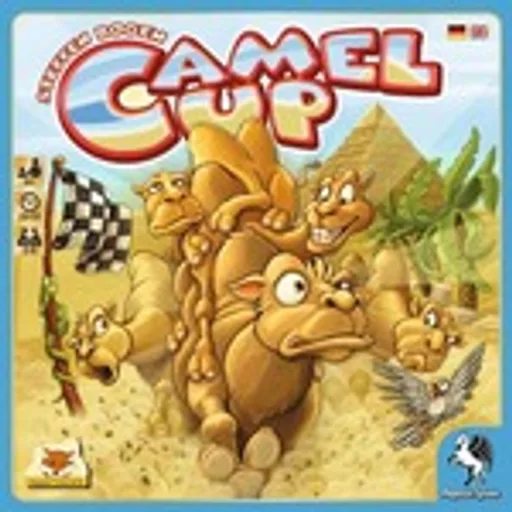
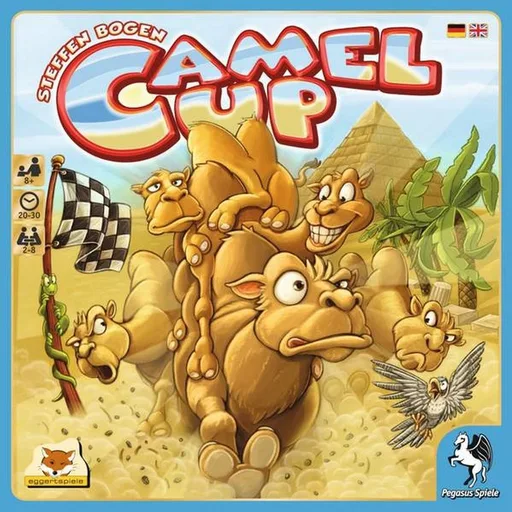
Las portadas nuevas dejan de quedarse pegadas en el móvil
El service worker guardaba «covers/*.webp» con CacheFirst y 180 días de vida,
dando por hecho que una portada no cambia nunca. Sí cambian: hasta que se
bajaron las cajas de BGG, esas mismas rutas servían fotos de Wikimedia —gente
jugando en una convención— y quien ya hubiera abierto la app se quedaba con
ellas durante meses. La caché pasa a llamarse «portadas-v2», y la vieja se
borra al arrancar desde el nuevo «src/lib/caches.ts», que workbox solo limpia
lo que él mismo precarga.

De paso, ya no queda ninguna portada fuera de la API: «Aventureros al Tren»
(9209) y «Parchís» (2136, «Pachisi») reciben su ID de BGG, y con ellos
«covers.overrides.ts» se queda vacío. Las 369 portadas vienen de BoardGameGeek.

diff --git a/src/games/covers.generated.ts b/src/games/covers.generated.ts
@@ -12,8 +12,8 @@
  * `sourceUrl` es de dónde se sacó la imagen. Las carátulas son de sus editoriales; se
  * guardan a 512 px con fines de identificación (ver la nota del README).
  *
- * Última actualización: 2026-08-17
- * Con portada: 368 de 393
+ * Última actualización: 2026-08-19
+ * Con portada: 369 de 393
  */
 export interface Cover {
   /** Ruta relativa a la base del sitio: `covers/azul.webp`. */
@@ -47,13 +47,13 @@ export const COVERS: Record<string, Cover> = {
   'arkham-horror-lcg': { file: 'covers/arkham-horror-lcg.webp', source: 'bgg', sourceUrl: 'https://cf.geekdo-images.com/B5F5ulz0UivNgrI9Ky0euA__original/img/guEKCewM_2e5ugltSN3dTSwdZJI=/0x0/filters:format(jpeg)/pic3122349.jpg' },
   'arnak-missing-expedition': { file: 'covers/arnak-missing-expedition.webp', source: 'bgg', sourceUrl: 'https://cf.geekdo-images.com/TABbfOUUMAuD6R7WEK8PZg__original/img/tVpMJ721tH_l24mgrNcNSEPhVfY=/0x0/filters:format(jpeg)/pic7412877.jpg' },
   'ascension': { file: 'covers/ascension.webp', source: 'bgg', sourceUrl: 'https://cf.geekdo-images.com/xP9s1W6CzUPW9_etm395lg__original/img/ozzJzhBFNune8ZoLJeVssWkCHGU=/0x0/filters:format(jpeg)/pic1779866.jpg' },
-  'aventureros-al-tren': { file: 'covers/aventureros-al-tren.webp', source: 'manual', sourceUrl: 'https://upload.wikimedia.org/wikipedia/en/9/92/Ticket_to_Ride_Board_Game_Box_EN.jpg' },
+  'aventureros-al-tren': { file: 'covers/aventureros-al-tren.webp', source: 'bgg', sourceUrl: 'https://cf.geekdo-images.com/kdWYkW-7AqG63HhqPL6ekA__original/img/rWF8r4JXXCQQ7QhiWHhmT-rQ3Pc=/0x0/filters:format(jpeg)/pic8937637.jpg' },
   'axis-allies': { file: 'covers/axis-allies.webp', source: 'bgg', sourceUrl: 'https://cf.geekdo-images.com/pWUe-w4DpXdcmH6GqbZqCw__original/img/-mqPeX0oe4pkmLxBNyRt3uGyyf0=/0x0/filters:format(jpeg)/pic24006.jpg' },
   'azul': { file: 'covers/azul.webp', source: 'bgg', sourceUrl: 'https://cf.geekdo-images.com/aPSHJO0d0XOpQR5X-wJonw__original/img/AkbtYVc6xXJF3c9EUrakklcclKw=/0x0/filters:format(png)/pic6973671.png' },
   'azul-queens-garden': { file: 'covers/azul-queens-garden.webp', source: 'bgg', sourceUrl: 'https://cf.geekdo-images.com/l-NBWJ1gIcfOCfrvAw8qvw__original/img/VaPUWBlEE3Wg_QGYAsHxKV8mBkw=/0x0/filters:format(jpeg)/pic6389125.jpg' },
   'azul-sintra': { file: 'covers/azul-sintra.webp', source: 'bgg', sourceUrl: 'https://cf.geekdo-images.com/RrYR1xB8H7D1B5GwNV8jgQ__original/img/unI8OEWp9Fdv3D_dLahPPdLG1qc=/0x0/filters:format(jpeg)/pic4212417.jpg' },
   'azul-summer-pavilion': { file: 'covers/azul-summer-pavilion.webp', source: 'bgg', sourceUrl: 'https://cf.geekdo-images.com/843kZ6WR0HfyXWEybA6L7A__original/img/VtYGvhy_YCSw14FpV8FGzv0eMe4=/0x0/filters:format(jpeg)/pic4930887.jpg' },
-  'backgammon': { file: 'covers/backgammon.webp', source: 'bgg', sourceUrl: 'https://cf.geekdo-images.com/Rqo5bREF6cHggYxoxNwJXg__original/img/0a_sj75N9kWmGceFyQGtijgQrf4=/0x0/filters:format(jpeg)/pic4314717.jpg' },
+  'backgammon': { file: 'covers/backgammon.webp', source: 'bgg', sourceUrl: 'https://cf.geekdo-images.com/PournqDRZ4mb9yFpJvAc_Q__original/img/Ifrj-OZIhhfQCrWpC6Aqp2bEV-E=/0x0/filters:format(jpeg)/pic9098768.jpg' },
   'balderdash': { file: 'covers/balderdash.webp', source: 'bgg', sourceUrl: 'https://cf.geekdo-images.com/hXNqiCcLt9AJzcqBSsyKiQ__original/img/77EMP3lRlpwjMTGP1cHQqv7w5lk=/0x0/filters:format(jpeg)/pic5121000.jpg' },
   'bananagrams': { file: 'covers/bananagrams.webp', source: 'bgg', sourceUrl: 'https://cf.geekdo-images.com/1QjYPI4bXx4OUMJPlrsNBA__original/img/WA2NRNJx83xq81H2dnnwEDV2Ork=/0x0/filters:format(jpeg)/pic2463443.jpg' },
   'barrage': { file: 'covers/barrage.webp', source: 'bgg', sourceUrl: 'https://cf.geekdo-images.com/jEPmWvvYpqkWrKOzqIHFsg__original/img/rkHKwkUqpQC7PAGG7n2gbrcQiUY=/0x0/filters:format(png)/pic4336469.png' },
@@ -75,8 +75,8 @@ export const COVERS: Record<string, Cover> = {
   'brass-lancashire': { file: 'covers/brass-lancashire.webp', source: 'bgg', sourceUrl: 'https://cf.geekdo-images.com/tHVtPzu82mBpeQbbZkV6EA__original/img/3ffdJj5Pz6HQrg09Kh8ecTen-TY=/0x0/filters:format(jpeg)/pic3469216.jpg' },
   'cabo': { file: 'covers/cabo.webp', source: 'bgg', sourceUrl: 'https://cf.geekdo-images.com/xm0CoWYr8kO0EaqlaVdVWQ__original/img/QrYehty8znj7KnIiguUMhI50A8g=/0x0/filters:format(jpeg)/pic754318.jpg' },
   'calico': { file: 'covers/calico.webp', source: 'bgg', sourceUrl: 'https://cf.geekdo-images.com/qGkU6XsF1448F_A4P8TY5Q__original/img/sm-qIkkIoKuYRUgkfP6kkXTm1QY=/0x0/filters:format(jpeg)/pic8124431.jpg' },
-  'camel-up': { file: 'covers/camel-up.webp', source: 'manual', sourceUrl: 'https://upload.wikimedia.org/wikipedia/en/f/fb/Camel_Up_box_cover.jpg' },
-  'canvas': { file: 'covers/canvas.webp', source: 'bgg', sourceUrl: 'https://cf.geekdo-images.com/wdcT3oy7VPlo9xmiY7HgDw__original/img/svMgpnpbACC3PBza3rxO3fs6aAI=/0x0/filters:format(jpeg)/pic798994.jpg' },
+  'camel-up': { file: 'covers/camel-up.webp', source: 'bgg', sourceUrl: 'https://cf.geekdo-images.com/jVr1bGBQpshqVPcwvZ7CPg__original/img/GlPdJsTvSho-vqwOOYfC4zyvOa0=/0x0/filters:format(jpeg)/pic1918028.jpg' },
+  'canvas': { file: 'covers/canvas.webp', source: 'bgg', sourceUrl: 'https://cf.geekdo-images.com/kXJLvPqcDF7Id5KRejhnuQ__original/img/jiORb05QSdRMi-eo1Vi_3wjUSWU=/0x0/filters:format(jpeg)/pic7125372.jpg' },
   'carcassonne': { file: 'covers/carcassonne.webp', source: 'bgg', sourceUrl: 'https://cf.geekdo-images.com/peUgu3A20LRmAXAMyDQfpQ__original/img/bP18m_PYjyFOv1IBGgMOteQUneA=/0x0/filters:format(jpeg)/pic8621446.jpg' },
   'cards-against-humanity': { file: 'covers/cards-against-humanity.webp', source: 'bgg', sourceUrl: 'https://cf.geekdo-images.com/nYLrPiI9gnvlrwOrKQ4_CA__original/img/EgMpdhoG38LUTApk0kyFFsmoQPk=/0x0/filters:format(jpeg)/pic2909692.jpg' },
   'carnegie': { file: 'covers/carnegie.webp', source: 'bgg', sourceUrl: 'https://cf.geekdo-images.com/0qxz9DRRhsJrIW1TJ-kz0w__original/img/PzsJsCLfGGo4IG3v43VPvH_etPw=/0x0/filters:format(jpeg)/pic5710736.jpg' },
@@ -189,6 +189,7 @@ export const COVERS: Record<string, Cover> = {
   'insider': { file: 'covers/insider.webp', source: 'bgg', sourceUrl: 'https://cf.geekdo-images.com/VW7K2SmGbr-Eim9nNhxfJw__original/img/UY2k4aU_0kF24cYks1b0awwE3gU=/0x0/filters:format(jpeg)/pic3325362.jpg' },
   'inventors-south-tigris': { file: 'covers/inventors-south-tigris.webp', source: 'bgg', sourceUrl: 'https://cf.geekdo-images.com/bQKqrr_k9mbi2v80hwkyPw__original/img/E3SZKiPb1PHiBs-1XyqZp7TKlEU=/0x0/filters:format(png)/pic7282971.png' },
   'isle-of-cats': { file: 'covers/isle-of-cats.webp', source: 'bgg', sourceUrl: 'https://cf.geekdo-images.com/AuAheDzhkLufiZFE9JaRNA__original/img/pKq-l1Ms78olHwMbZYMa_x6m-fM=/0x0/filters:format(jpeg)/pic4781085.jpg' },
+  'iss-vanguard': { file: 'covers/iss-vanguard.webp', source: 'bgg', sourceUrl: 'https://cf.geekdo-images.com/1ySeZNVkVwTvqykMGtHFFQ__original/img/WMa7R2ViiGzzWpKWEdJAOv518PU=/0x0/filters:format(jpeg)/pic7245199.jpg' },
   'istanbul': { file: 'covers/istanbul.webp', source: 'bgg', sourceUrl: 'https://cf.geekdo-images.com/PHH9Mreen2sBcxV6ZsE3ew__original/img/pHIJibqf-DmlOQD3CfT_rAjGmc0=/0x0/filters:format(jpeg)/pic1885326.jpg' },
   'jaipur': { file: 'covers/jaipur.webp', source: 'bgg', sourceUrl: 'https://cf.geekdo-images.com/_LTujSe_o16nvjDC-J0seA__original/img/zUnAdsgt4dCxvtoRDc_9DHbic0M=/0x0/filters:format(jpeg)/pic5100947.jpg' },
   'john-company': { file: 'covers/john-company.webp', source: 'bgg', sourceUrl: 'https://cf.geekdo-images.com/TAdE4z_bwAAjJlmPrkmKhA__original/img/V5wLvuhU3mKNr6PUf1cxyeemh00=/0x0/filters:format(jpeg)/pic6601629.jpg' },
@@ -246,7 +247,7 @@ export const COVERS: Record<string, Cover> = {
   'nucleum': { file: 'covers/nucleum.webp', source: 'bgg', sourceUrl: 'https://cf.geekdo-images.com/fIVUaMvbfy6GCOgfxt7xaw__original/img/dBMnuz3SrgxsDLHT6pwbQFPQBIw=/0x0/filters:format(jpeg)/pic7647168.jpg' },
   'oath': { file: 'covers/oath.webp', source: 'bgg', sourceUrl: 'https://cf.geekdo-images.com/gTxav_KKQK1rDg-XuCjCSA__original/img/lG-iXVzDlfFrD6VPggvg2WQ7228=/0x0/filters:format(jpeg)/pic5164812.jpg' },
   'oathsworn': { file: 'covers/oathsworn.webp', source: 'bgg', sourceUrl: 'https://cf.geekdo-images.com/dezQ4YjF03lZVxTdI-UJYw__original/img/smV4u2r1moRbzsSTzykECb06Mpo=/0x0/filters:format(jpeg)/pic6863204.jpg' },
-  'obsession': { file: 'covers/obsession.webp', source: 'bgg', sourceUrl: 'https://cf.geekdo-images.com/-AbeZjfuhuGPkSZGFhmN_Q__original/img/zBtl60G-VTb-4v4rvbaA09S3w28=/0x0/filters:format(jpeg)/pic1307249.jpg' },
+  'obsession': { file: 'covers/obsession.webp', source: 'bgg', sourceUrl: 'https://cf.geekdo-images.com/sy89BiuZXfbSnG7Cag9tBQ__original/img/uArsqbWyUALa982zGWsy8QQWnjE=/0x0/filters:format(png)/pic5902073.png' },
   'on-mars': { file: 'covers/on-mars.webp', source: 'bgg', sourceUrl: 'https://cf.geekdo-images.com/Nm0Iw8NoiM9V8IsifimGBw__original/img/GNjjsgxq7wYO9pSIteDJe6Sxt00=/0x0/filters:format(jpeg)/pic4357658.jpg' },
   'one-night-ultimate-werewolf': { file: 'covers/one-night-ultimate-werewolf.webp', source: 'bgg', sourceUrl: 'https://cf.geekdo-images.com/rqLju4uaZq-G9z4g91aPPQ__original/img/eOxUlbCuix0lOjuyBYpjtIXVihc=/0x0/filters:format(png)/pic8783294.png' },
   'onitama': { file: 'covers/onitama.webp', source: 'bgg', sourceUrl: 'https://cf.geekdo-images.com/GJKuOCy5HGAYgVH_Rei5mA__original/img/oRsIxp72iv58128KFdqvjG6Gz64=/0x0/filters:format(jpeg)/pic7070194.jpg' },
@@ -256,7 +257,7 @@ export const COVERS: Record<string, Cover> = {
   'pandemic-legacy-0': { file: 'covers/pandemic-legacy-0.webp', source: 'bgg', sourceUrl: 'https://cf.geekdo-images.com/y0x1zbkpUXjddzWWnhekYw__original/img/2VlfzwT4b8f1s2HqbilcjR-bM3I=/0x0/filters:format(jpeg)/pic5581457.jpg' },
   'pandemic-legacy-1': { file: 'covers/pandemic-legacy-1.webp', source: 'bgg', sourceUrl: 'https://cf.geekdo-images.com/-Qer2BBPG7qGGDu6KcVDIw__original/img/PlzAH7swN1nsFxOXbfUvE3TkE5w=/0x0/filters:format(png)/pic2452831.png' },
   'pandemic-legacy-2': { file: 'covers/pandemic-legacy-2.webp', source: 'bgg', sourceUrl: 'https://cf.geekdo-images.com/Qtkb-UTvHa0-kxt_MK1nKw__original/img/wJiRr7lBmWSKcRS3lPpvKIPMgQQ=/0x0/filters:format(jpeg)/pic3763549.jpg' },
-  'parchis': { file: 'covers/parchis.webp', source: 'wikipedia', sourceUrl: 'https://upload.wikimedia.org/wikipedia/commons/c/cd/Parch%C3%ADs.svg' },
+  'parchis': { file: 'covers/parchis.webp', source: 'bgg', sourceUrl: 'https://cf.geekdo-images.com/45Nb6goQqvPHD9hOut0ntg__original/img/PvDk6RoeXtEl1hsi1eIjeEKZqJk=/0x0/filters:format(jpeg)/pic516869.jpg' },
   'parks': { file: 'covers/parks.webp', source: 'bgg', sourceUrl: 'https://cf.geekdo-images.com/mF2cSNRk2O6HtE45Sl9TcA__original/img/_KNgPoC_4l7iN0ntbFILexOJpfc=/0x0/filters:format(jpeg)/pic4852372.jpg' },
   'patchwork': { file: 'covers/patchwork.webp', source: 'bgg', sourceUrl: 'https://cf.geekdo-images.com/xNSaIHCKr_cc7Q2rQSSJPQ__original/img/HJJdVosBV35kj8pQ6wmQMiJRhVA=/0x0/filters:format(jpeg)/pic9273518.jpg' },
   'patchwork-doodle': { file: 'covers/patchwork-doodle.webp', source: 'bgg', sourceUrl: 'https://cf.geekdo-images.com/8nSMDhVg9QsyesfLBwIxCA__original/img/SLn-yrpjoQXEgzAE8HamdJ0YSvg=/0x0/filters:format(jpeg)/pic4682702.jpg' },
@@ -337,11 +338,11 @@ export const COVERS: Record<string, Cover> = {
   'telestrations': { file: 'covers/telestrations.webp', source: 'bgg', sourceUrl: 'https://cf.geekdo-images.com/Dd94J37Oi1tgL7HAAaOfAQ__original/img/SAMxnv21q2rwvViEOu2nti4H0Is=/0x0/filters:format(jpeg)/pic8855812.jpg' },
   'teotihuacan': { file: 'covers/teotihuacan.webp', source: 'bgg', sourceUrl: 'https://cf.geekdo-images.com/wW5xjgBJcFyLaEWZwrYuKA__original/img/72kzn6t41ZxLEr3GFd8ir6hDdH4=/0x0/filters:format(jpeg)/pic4583626.jpg' },
   'terra-mystica': { file: 'covers/terra-mystica.webp', source: 'bgg', sourceUrl: 'https://cf.geekdo-images.com/bre12I1YiXkZr7elvriz4A__original/img/_dZS7fVfdc4DhJPbqnDpwTT4uF0=/0x0/filters:format(jpeg)/pic5375624.jpg' },
-  'terraforming-mars': { file: 'covers/terraforming-mars.webp', source: 'manual', sourceUrl: 'https://upload.wikimedia.org/wikipedia/en/f/f0/Terraforming_Mars_board_game_box_cover.jpg' },
+  'terraforming-mars': { file: 'covers/terraforming-mars.webp', source: 'bgg', sourceUrl: 'https://cf.geekdo-images.com/wg9oOLcsKvDesSUdZQ4rxw__original/img/thIqWDnH9utKuoKVEUqveDixprI=/0x0/filters:format(jpeg)/pic3536616.jpg' },
   'the-chameleon': { file: 'covers/the-chameleon.webp', source: 'bgg', sourceUrl: 'https://cf.geekdo-images.com/-uBkiypUVyRKxNuOI_-ZpQ__original/img/Y_12y74FIaAXMfiQ0tFhpfkrN1U=/0x0/filters:format(png)/pic3552344.png' },
   'the-crew-planet-nine': { file: 'covers/the-crew-planet-nine.webp', source: 'bgg', sourceUrl: 'https://cf.geekdo-images.com/98LnQShydr11OBKS46xY-Q__original/img/Q-ZkgnuBu9OTBr7J3qnqPjqamAE=/0x0/filters:format(jpeg)/pic5687013.jpg' },
   'the-gallerist': { file: 'covers/the-gallerist.webp', source: 'bgg', sourceUrl: 'https://cf.geekdo-images.com/ie1GSt1XV04sXQXt-3O1UQ__original/img/59dZRZePEgtcupkRSA2zohZuHpM=/0x0/filters:format(png)/pic2503200.png' },
-  'the-game': { file: 'covers/the-game.webp', source: 'bgg', sourceUrl: 'https://cf.geekdo-images.com/mqF7rCWznElkOk43to8yKg__original/img/2RucXG4y_YMTSIiZVnT3ihoskSw=/0x0/filters:format(jpeg)/pic2661981.jpg' },
+  'the-game': { file: 'covers/the-game.webp', source: 'bgg', sourceUrl: 'https://cf.geekdo-images.com/g4pn1ieUKfIhERl5Ym6joQ__original/img/ZcwvBXraym0wfre1sm9t1d44BBA=/0x0/filters:format(png)/pic4203279.png' },
   'the-loop': { file: 'covers/the-loop.webp', source: 'bgg', sourceUrl: 'https://cf.geekdo-images.com/NPWdxDD5uLOBLBDdVgdLvA__original/img/zlx0Qqcgt0TLu62F5sKUmYTDNvc=/0x0/filters:format(png)/pic6034093.png' },
   'the-mind': { file: 'covers/the-mind.webp', source: 'bgg', sourceUrl: 'https://cf.geekdo-images.com/q_JGK291hrhnhiRB0667oA__original/img/8VjZEG278faO9JZwzce3v3EKssI=/0x0/filters:format(png)/pic3979766.png' },
   'the-red-cathedral': { file: 'covers/the-red-cathedral.webp', source: 'bgg', sourceUrl: 'https://cf.geekdo-images.com/-PuiCnbxlBzMSjnUegp9AQ__original/img/hH1AwTR4fdtYY_cO8IYp1-I8dhE=/0x0/filters:format(jpeg)/pic5556025.jpg' },

diff --git a/scripts/external-ids.generated.ts b/scripts/external-ids.generated.ts
@@ -5,8 +5,8 @@
  * Identificador de cada juego integrado en BoardGameGeek y en Wikidata. Es lo que
  * permite que `npm run covers` pida la portada por ID en vez de buscarla por nombre.
  *
- * Última actualización: 2026-08-17
- * Con ID de BGG: 366 de 393 · con ítem de Wikidata: 235
+ * Última actualización: 2026-08-19
+ * Con ID de BGG: 369 de 393 · con ítem de Wikidata: 235
  */
 export interface ExternalIds {
   bgg?: number
@@ -14,13 +14,11 @@ export interface ExternalIds {
 }
 
 /**
- * PENDIENTES (24): ningún método los ha resuelto.
+ * PENDIENTES (22): ningún método los ha resuelto.
  * Copia el ID bueno a scripts/bgg-ids.overrides.ts y vuelve a lanzar `npm run ids`.
  * // 'domino': ?,  // Dominó
- * // 'aventureros-al-tren': ?,  // Aventureros al Tren
  * // 'five-tribes': ?,  // Five Tribes
  * // 'middara': ?,  // Middara: Unintentional Malum
- * // 'iss-vanguard': ?,  // ISS Vanguard
  * // 'elden-ring-board-game': ?,  // Elden Ring: The Board Game
  * // 'unmatched-battle-legends': ?,  // Unmatched: Battle of Legends
  * // 'unmatched-jurassic-park': ?,  // Unmatched: Jurassic Park
@@ -67,12 +65,13 @@ export const EXTERNAL_IDS: Record<string, ExternalIds> = {
   'arkham-horror-lcg': { bgg: 205637, wikidata: 'Q27970574' },
   'arnak-missing-expedition': { bgg: 382350 },
   'ascension': { bgg: 10403 },
+  'aventureros-al-tren': { bgg: 9209 },
   'axis-allies': { bgg: 98, wikidata: 'Q792553' },
   'azul': { bgg: 230802, wikidata: 'Q44367843' },
   'azul-queens-garden': { bgg: 346965 },
   'azul-sintra': { bgg: 256226 },
   'azul-summer-pavilion': { bgg: 287954 },
-  'backgammon': { bgg: 1500, wikidata: 'Q2452586' },
+  'backgammon': { bgg: 2397, wikidata: 'Q2452586' },
   'balderdash': { bgg: 163, wikidata: 'Q1792503' },
   'bananagrams': { bgg: 27225 },
   'barrage': { bgg: 251247, wikidata: 'Q114823683' },
@@ -95,7 +94,7 @@ export const EXTERNAL_IDS: Record<string, ExternalIds> = {
   'cabo': { bgg: 73664, wikidata: 'Q3514630' },
   'calico': { bgg: 283155, wikidata: 'Q106946550' },
   'camel-up': { bgg: 153938 },
-  'canvas': { bgg: 81703 },
+  'canvas': { bgg: 290236 },
   'carcassonne': { bgg: 822, wikidata: 'Q17262' },
   'cards-against-humanity': { bgg: 50381, wikidata: 'Q5038791' },
   'carnegie': { bgg: 310873, wikidata: 'Q116450997' },
@@ -209,6 +208,7 @@ export const EXTERNAL_IDS: Record<string, ExternalIds> = {
   'insider': { bgg: 206051, wikidata: 'Q122640564' },
   'inventors-south-tigris': { bgg: 378387 },
   'isle-of-cats': { bgg: 281259, wikidata: 'Q127038367' },
+  'iss-vanguard': { bgg: 325494 },
   'istanbul': { bgg: 148949, wikidata: 'Q18352396' },
   'jaipur': { bgg: 54043, wikidata: 'Q1678774' },
   'john-company': { bgg: 332686, wikidata: 'Q122238495' },
@@ -266,7 +266,7 @@ export const EXTERNAL_IDS: Record<string, ExternalIds> = {
   'nucleum': { bgg: 396790 },
   'oath': { bgg: 291572 },
   'oathsworn': { bgg: 251661, wikidata: 'Q125788585' },
-  'obsession': { bgg: 12568, wikidata: 'Q7075507' },
+  'obsession': { bgg: 231733, wikidata: 'Q7075507' },
   'on-mars': { bgg: 184267, wikidata: 'Q99769109' },
   'one-night-ultimate-werewolf': { bgg: 147949 },
   'onitama': { bgg: 160477, wikidata: 'Q56457416' },
@@ -276,7 +276,7 @@ export const EXTERNAL_IDS: Record<string, ExternalIds> = {
   'pandemic-legacy-0': { bgg: 314040, wikidata: 'Q107138671' },
   'pandemic-legacy-1': { bgg: 161936, wikidata: 'Q36816018' },
   'pandemic-legacy-2': { bgg: 221107, wikidata: 'Q96053095' },
-  'parchis': { wikidata: 'Q945556' },
+  'parchis': { bgg: 2136, wikidata: 'Q945556' },
   'parks': { bgg: 266524, wikidata: 'Q105086916' },
   'patchwork': { bgg: 163412, wikidata: 'Q29471714' },
   'patchwork-doodle': { bgg: 264239, wikidata: 'Q138303654' },
@@ -361,7 +361,7 @@ export const EXTERNAL_IDS: Record<string, ExternalIds> = {
   'the-chameleon': { bgg: 227072, wikidata: 'Q116233173' },
   'the-crew-planet-nine': { bgg: 284083, wikidata: 'Q77852578' },
   'the-gallerist': { bgg: 125153, wikidata: 'Q106009367' },
-  'the-game': { bgg: 180459, wikidata: 'Q59876777' },
+  'the-game': { bgg: 173090, wikidata: 'Q59876777' },
   'the-loop': { bgg: 316412 },
   'the-mind': { bgg: 244992, wikidata: 'Q53726996' },
   'the-red-cathedral': { bgg: 227224 },

diff --git a/scripts/bgg-ids.overrides.ts b/scripts/bgg-ids.overrides.ts
@@ -20,4 +20,18 @@ export interface IdOverride {
 
 export const ID_OVERRIDES: Record<string, IdOverride> = {
   // 'spirit-island-jagged-earth': { bgg: 264220 },
+
+  // Homónimos: la búsqueda se quedó con el primer juego del mismo nombre, que es otro.
+  // Se vieron por la portada —la de «Obsession» era una foto de gente jugando a un juego
+  // de madera de los setenta— y se corrigen aquí, que es donde nace el problema.
+  'obsession': { bgg: 231733 }, // el victoriano de 2018, no el «Obsession» de 1977
+  'canvas': { bgg: 290236 }, // el de las cartas transparentes de 2021, no el de 2010
+  'the-game': { bgg: 173090 }, // el de Benndorf, no «Wikipedia: The Game About Everything»
+  'backgammon': { bgg: 2397 }, // el backgammon de siempre, no «Zocken»
+
+  // Sin ID por el nombre: la búsqueda no llega a ellos porque el catálogo los llama
+  // como se les llama aquí. Con el ID puesto, la portada sale de BGG y ya no hace
+  // falta la imagen de Wikipedia.
+  'aventureros-al-tren': { bgg: 9209 }, // «Ticket to Ride»
+  'parchis': { bgg: 2136 }, // «Pachisi», del que viene el parchis
 }

diff --git a/scripts/covers.overrides.ts b/scripts/covers.overrides.ts
@@ -15,14 +15,6 @@
  * la portada. Esto es para cuando el ID es correcto y la imagen no.
  */
 export const COVER_OVERRIDES: Record<string, string> = {
-  // Estos tres son juegos escritos a mano que traían su portada puesta a dedo en
-  // `definitions/`. Ni Wikidata ni Wikipedia los resuelven —«Camel Up» y «Terraforming
-  // Mars» no tienen ID de BGG en Wikidata, y a «Aventureros al Tren» le pasa que el
-  // artículo está bajo su título en inglés—, así que sus URLs se conservan aquí para
-  // que sigan teniendo caja. Cuando haya token de BGG, se pueden borrar.
-  'camel-up': 'https://upload.wikimedia.org/wikipedia/en/f/fb/Camel_Up_box_cover.jpg',
-  'aventureros-al-tren':
-    'https://upload.wikimedia.org/wikipedia/en/9/92/Ticket_to_Ride_Board_Game_Box_EN.jpg',
-  'terraforming-mars':
-    'https://upload.wikimedia.org/wikipedia/en/f/f0/Terraforming_Mars_board_game_box_cover.jpg',
+  // Vacío a propósito: con el token de BGG puesto, todas las portadas salen de la API.
+  // 'algun-juego': 'https://…/portada.jpg',
 }

diff --git a/vite.config.ts b/vite.config.ts
@@ -47,10 +47,15 @@ export default defineConfig({
         runtimeCaching: [
           {
             urlPattern: /\/covers\/[^/]+\.webp$/,
-            // Una portada no cambia nunca: si está en caché, no hay nada que preguntar.
+            // Se sirven de caché sin preguntar: son cientos y no cambian de un día
+            // para otro. Pero el fichero de una portada sí puede cambiar de contenido
+            // sin cambiar de nombre (`npm run covers` la vuelve a bajar de BGG), y con
+            // CacheFirst el móvil se quedaría con la vieja durante meses. Por eso el
+            // nombre de la caché lleva versión: al subirlo, todo el mundo se baja las
+            // portadas nuevas la próxima vez que abre la app.
             handler: 'CacheFirst',
             options: {
-              cacheName: 'portadas',
+              cacheName: 'portadas-v2',
               expiration: { maxEntries: 500, maxAgeSeconds: 60 * 60 * 24 * 180 },
               cacheableResponse: { statuses: [0, 200] },
             },

diff --git a/src/lib/caches.ts b/src/lib/caches.ts
@@ -1,0 +1,19 @@
+/**
+ * Borrado de las cachés del service worker que ya no usa nadie.
+ *
+ * Las portadas se guardan con `CacheFirst`, así que una portada que cambia de
+ * contenido sin cambiar de nombre se quedaba en el móvil durante meses. El arreglo
+ * es versionar el nombre de la caché en `vite.config.ts` (`portadas` → `portadas-v2`),
+ * pero la vieja sigue ocupando sitio: workbox solo limpia lo que él mismo precarga.
+ * Aquí se borran a mano, una vez, al arrancar la app.
+ */
+
+/** Nombres de caché que dejó alguna versión anterior y ya no se consultan. */
+const STALE_CACHES = ['portadas']
+
+export function dropStaleCaches(): void {
+  if (typeof globalThis.caches === 'undefined') return
+  for (const name of STALE_CACHES) {
+    void globalThis.caches.delete(name).catch(() => {})
+  }
+}

diff --git a/src/main.tsx b/src/main.tsx
@@ -5,6 +5,7 @@ import { PersistQueryClientProvider } from '@tanstack/react-query-persist-client
 import { createSyncStoragePersister } from '@tanstack/query-sync-storage-persister'
 import App from './App'
 import { applyStoredTheme } from './lib/theme'
+import { dropStaleCaches } from './lib/caches'
 import './index.css'
 
 const WEEK = 1000 * 60 * 60 * 24 * 7
@@ -33,6 +34,7 @@ const persister = createSyncStoragePersister({
 })
 
 applyStoredTheme()
+dropStaleCaches()
 
 createRoot(document.getElementById('root')!).render(
   <StrictMode>

diff --git a/ESTADO.md b/ESTADO.md
@@ -18,6 +18,42 @@ quedó a medias y lo siguiente que toca.
 
 ## Estado actual
 
+- **Cribado de portadas con personas (2026-08-19)**. Toni pidió quitar las carátulas
+  «donde aparezcan personas» y, al aclararlo, fijó el criterio: **personas REALES**
+  (fotografías); si son personajes dibujados de la propia carátula del juego, se quedan.
+  Se revisaron las 368 portadas montando hojas de contactos con `sharp` (25 por lámina).
+  Resultado: **solo una** incumplía —«Obsession», que colgaba la foto de un juego de
+  madera de los setenta rodeada de fotos de gente— y la causa no era la portada sino el
+  **ID de BGG** (12568, un homónimo). De paso salieron tres más igual de mal
+  identificadas, sin personas: «Canvas» (el de 2010 en vez del de 2021), «The Game»
+  («Wikipedia: The Game About Everything») y «Backgammon» («Zocken»). Los cuatro IDs
+  corregidos en `scripts/bgg-ids.overrides.ts` —que es donde se arregla esto, no en
+  `covers.overrides.ts`: si el ID es el bueno, la portada viene sola— y regenerados
+  `npm run ids` (367/393 con ID, uno nuevo de propina: `iss-vanguard`) y `npm run covers`
+  (369/393 con portada). Lo que **no** se tocó, por el criterio de arriba: Power Grid
+  (el ingeniero de la edición «Recharged»), 7 Wonders (el Coloso), Código Secreto (los
+  dos espías), King of Tokyo y Dixit, que Toni había citado como ejemplos. Si algún día
+  se quiere la edición sin figuras, la API las da: `thing?id=<id>&versions=1` lista todas
+  las ediciones con su imagen (la primera inglesa de Power Grid, 2004, son torres de alta
+  tensión sin nadie).
+- **Las portadas viejas se quedaban pegadas en el móvil (2026-08-19)**. Toni seguía
+  viendo fotos de gente jugando en Rummikub, King of Tokyo, Dixit, Código Secreto,
+  Power Grid, Hansa Teutónica… y pedía cambiarlas por las de la API. No había nada que
+  cambiar: los `.webp` del repo **y los de GitHub Pages** son ya las cajas de BGG
+  (comprobado byte a byte con `curl`). Lo que fallaba era la caché: el service worker
+  guarda `covers/*.webp` con **`CacheFirst`** y 180 días de vida, y hasta el commit
+  `12422f0` esas mismas rutas servían **fotos de Wikimedia** (`Rummikub1.jpg`,
+  `Deskohraní 2012` para King of Tokyo, `Vysoké napětí` para Power Grid…), justo las
+  fotos de gente jugando. Mismo nombre de fichero, contenido nuevo ⇒ el móvil no lo
+  volvía a pedir. Arreglado versionando el nombre de la caché en `vite.config.ts`
+  (`portadas` → `portadas-v2`) y borrando la vieja al arrancar desde
+  `src/lib/caches.ts` (`dropStaleCaches`, llamada en `main.tsx`). **Hasta que esto no se
+  despliegue, Toni seguirá viendo las fotos viejas**; si quiere verlo antes, vale con
+  borrar los datos del sitio en el navegador.
+- **Ya no queda ninguna portada fuera de la API (2026-08-19)**. `scripts/covers.overrides.ts`
+  se ha quedado vacío: «Camel Up» y «Terraforming Mars» ya tenían ID de BGG, y
+  «Aventureros al Tren» (9209) y «Parchís» (2136, «Pachisi») lo han recibido en
+  `bgg-ids.overrides.ts`. Las 369 portadas tienen `source: 'bgg'`.
 - Rama `main`. Todo en verde: `npm run lint && npm test && npm run build` pasa
   (146 tests, build OK). Comprobado 2026-08-19.
 - **Tamaño de las tarjetas de juego en móvil (rejilla a 2/3/4 columnas)**. Sale de una
@@ -181,6 +217,15 @@ quedó a medias y lo siguiente que toca.
 
 ## Bitácora
 
+- **2026-08-19** — Claude (terminal): las portadas viejas seguían viéndose en el móvil.
+  No era el repo (los webp desplegados son ya los de BGG) sino la caché `CacheFirst` del
+  service worker, que servía las fotos de Wikimedia anteriores a `12422f0`. Caché
+  versionada a `portadas-v2` y borrado de la vieja al arrancar. De paso, fuera las tres
+  últimas portadas de Wikipedia: `covers.overrides.ts` vacío y todo desde la API.
+- **2026-08-19** — Claude (terminal): cribado de las 368 portadas buscando personas
+  reales. Una sola incumplía («Obsession») y las cuatro portadas equivocadas que
+  aparecieron eran homónimos mal resueltos: IDs corregidos en `bgg-ids.overrides.ts`,
+  `npm run ids` + `npm run covers` regenerados. Todo en verde (146 tests, build OK).
 - **2026-08-19** — Claude (terminal): tamaño de las tarjetas de juego en móvil. Primero un
   lienzo de maquetas para contestar a la consulta de Toni (cuatro pantallas de 390 px a
   distintas densidades, la tabla de medidas y el ajuste mockeado con sus costes); Toni pidió
